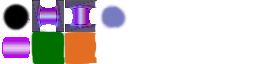
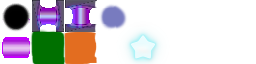
item colecionavel

Changed region(s): [[0.5, 0.5, 0.625, 0.9688]]

diff --git a/apps/js/screens.js b/apps/js/screens.js
@@ -11,6 +11,7 @@ class PlayState extends GameState {
         this.game.load.image('fullscreen-button', 'assets/fullscreen-button.png')
         this.game.load.image('pause', 'assets/button-pause.png')
         this.game.load.image('boss', 'assets/saw.png')
+        this.game.load.image('star', 'assets/star.png')
         
         this.game.load.spritesheet('droid', 'assets/droid.png', 32, 32)
         this.game.load.spritesheet('fire', 'assets/fire.png', 26, 32)
@@ -127,9 +128,11 @@ class PlayState extends GameState {
         this.map = this.game.add.group()
         this.holeMap = this.game.add.group()
         this.enemieMap = this.game.add.group()
-        
+        this.itemMap = this.game.add.group()
+
         mapTmx.createFromObjects('Camada de Objetos 1', 2, 'box', 0, true, false, this.map, Block);
         mapTmx.createFromObjects('Camada de Objetos 1', 3, 'boxVertical', 0, true, false, this.map, Block);
+        mapTmx.createFromObjects('Camada de Objetos 1', 13, 'star', 0, true, false, this.itemMap, Star);
         mapTmx.createFromObjects('Camada de Objetos 1', 1, 'hole', 0, true, false, this.holeMap, Hole);     
         
         this.numberOfLevel = 1;
@@ -385,10 +388,11 @@ class PlayState extends GameState {
 
     
     render() {
-      //  this.game.debug.body(this.ball)
+      //this.game.debug.body(this.ball)
         //this.holeMap.forEach( this.game.debug.body, this.game.debug, true);
         //this.map.forEach( this.game.debug.body, this.game.debug, true);
         //this.enemieMap.forEach( this.game.debug.body, this.game.debug, true);
+       // this.itemMap.forEach( this.game.debug.body, this.game.debug, true);
         
         
     }

diff --git a/apps/js/enemies.js b/apps/js/enemies.js
@@ -23,10 +23,6 @@ class Hole extends Phaser.Sprite {
         this.body.immovable = true
         this.tag = 'hole'
         this.autoCull = true
-       
-        //var anime = this.animations.add('spin', [0, 1, 2, 3, 4, 5], 5, true) //criar a animação com frames para estados dos sprites (0 a n)
-        //this.animations.play('spin')
-        
         
     }
 }
@@ -94,8 +90,20 @@ class Boss extends Phaser.Sprite {
             .to( {x: this.x, y: this.y}, game.height/0.2 )
             //.to( {x: 50, y: 50}, game.height/0.2 )
             .loop(-1)
-            .start()
-        
+            .start()   
     }
+}
 
+class Star extends Phaser.Sprite {
+    constructor(game, x, y, asset) {
+       super(game, x, y, asset)
+        this.game.physics.arcade.enable(this)
+        this.anchor.setTo(0.5, 0.5) 
+        this.body.setCircle(this.width/3);
+        this.body.syncBounds = false
+        this.body.immovable = true
+        this.tag = 'star'
+        this.autoCull = true
+               
+    }
 }
